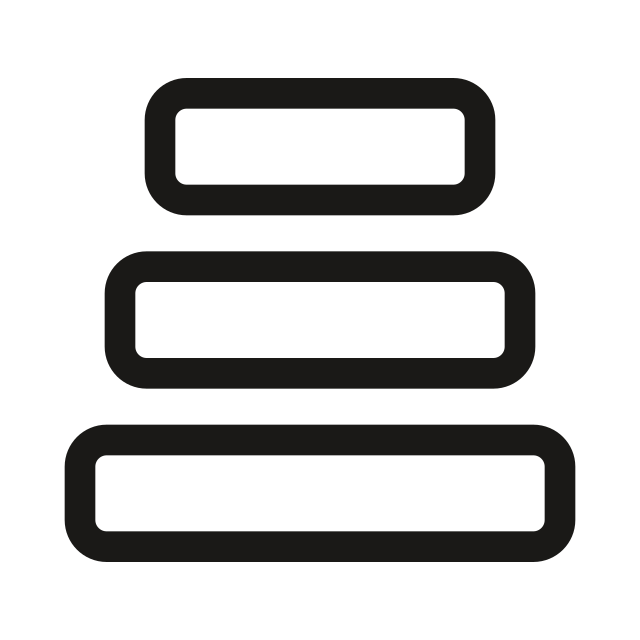
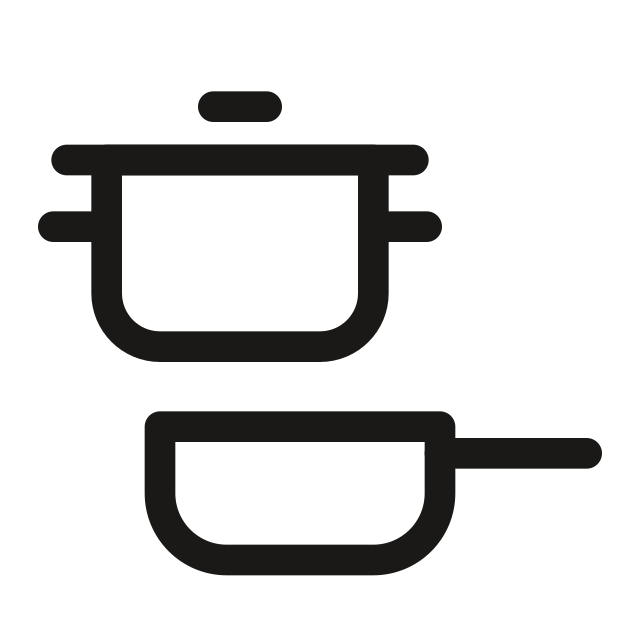
feat(brand): a cutting board and a pot-and-pan set, after the second review
The whisk under Dụng cụ nhà bếp read as a broom; the three stacked bars
under Bộ nồi & Bộ chảo read as a tiered steamer. Both redrawn in the
sprite and the exports; the four changed symbols are saved for the
theme snippet (S.13).

Changed region(s): [[0.0625, 0.125, 0.9375, 0.9062]]

diff --git a/__project__/backlog.md b/__project__/backlog.md
@@ -287,13 +287,16 @@ on the live theme.
 - [ ] **S.8** ↷ The level-2 icons were drawn in one sitting and reviewed at
       64 px; a second look at 24 px on a real phone is cheap and worth it.
 
-- [ ] **S.13** **Two icons redrawn, one rename asked for** (teammate review,
+- [ ] **S.13** **Four icons redrawn, one rename asked for** (teammate review,
       2026-09-17 evening). The iron (`cat-cham-soc-quan-ao`) is now angular
-      — the rounded one read as a dish cover — and the knife
-      (`cat-dao-dung-cu-cat`) is a chef's knife like 🔪. Both are in
-      `public/brand/category-icons.svg` and the 640 px exports; **the theme
-      copy `vinhn-beta` still has the old drawings** — paste the two
-      `<symbol>`s from `research/icon-changes-2026-09-17.svg.txt` into
+      — the rounded one read as a dish cover; the knife
+      (`cat-dao-dung-cu-cat`) is a chef's knife like 🔪; kitchen tools
+      (`cat-dung-cu-nha-bep`) is a cutting board — the whisk read as a
+      broom; the pot-and-pan set (`cat-bo-noi-bo-chao`) is a lidded pot
+      over a frying pan — the three stacked bars read as a tiered
+      steamer. All four are in `public/brand/category-icons.svg` and the
+      640 px exports; **the theme copy `vinhn-beta` still has the old
+      drawings** — paste the four `<symbol>`s from `research/icon-changes-2026-09-17.svg.txt` into
       `snippets/wolf-cat-icons.bwt` (part of S.1 either way). The rename
       "Chăm sóc không khí" → "Thanh lọc không khí" is a Sapo category
       rename, not an icon: do it in the admin, then `sync:sapo`; the slug
